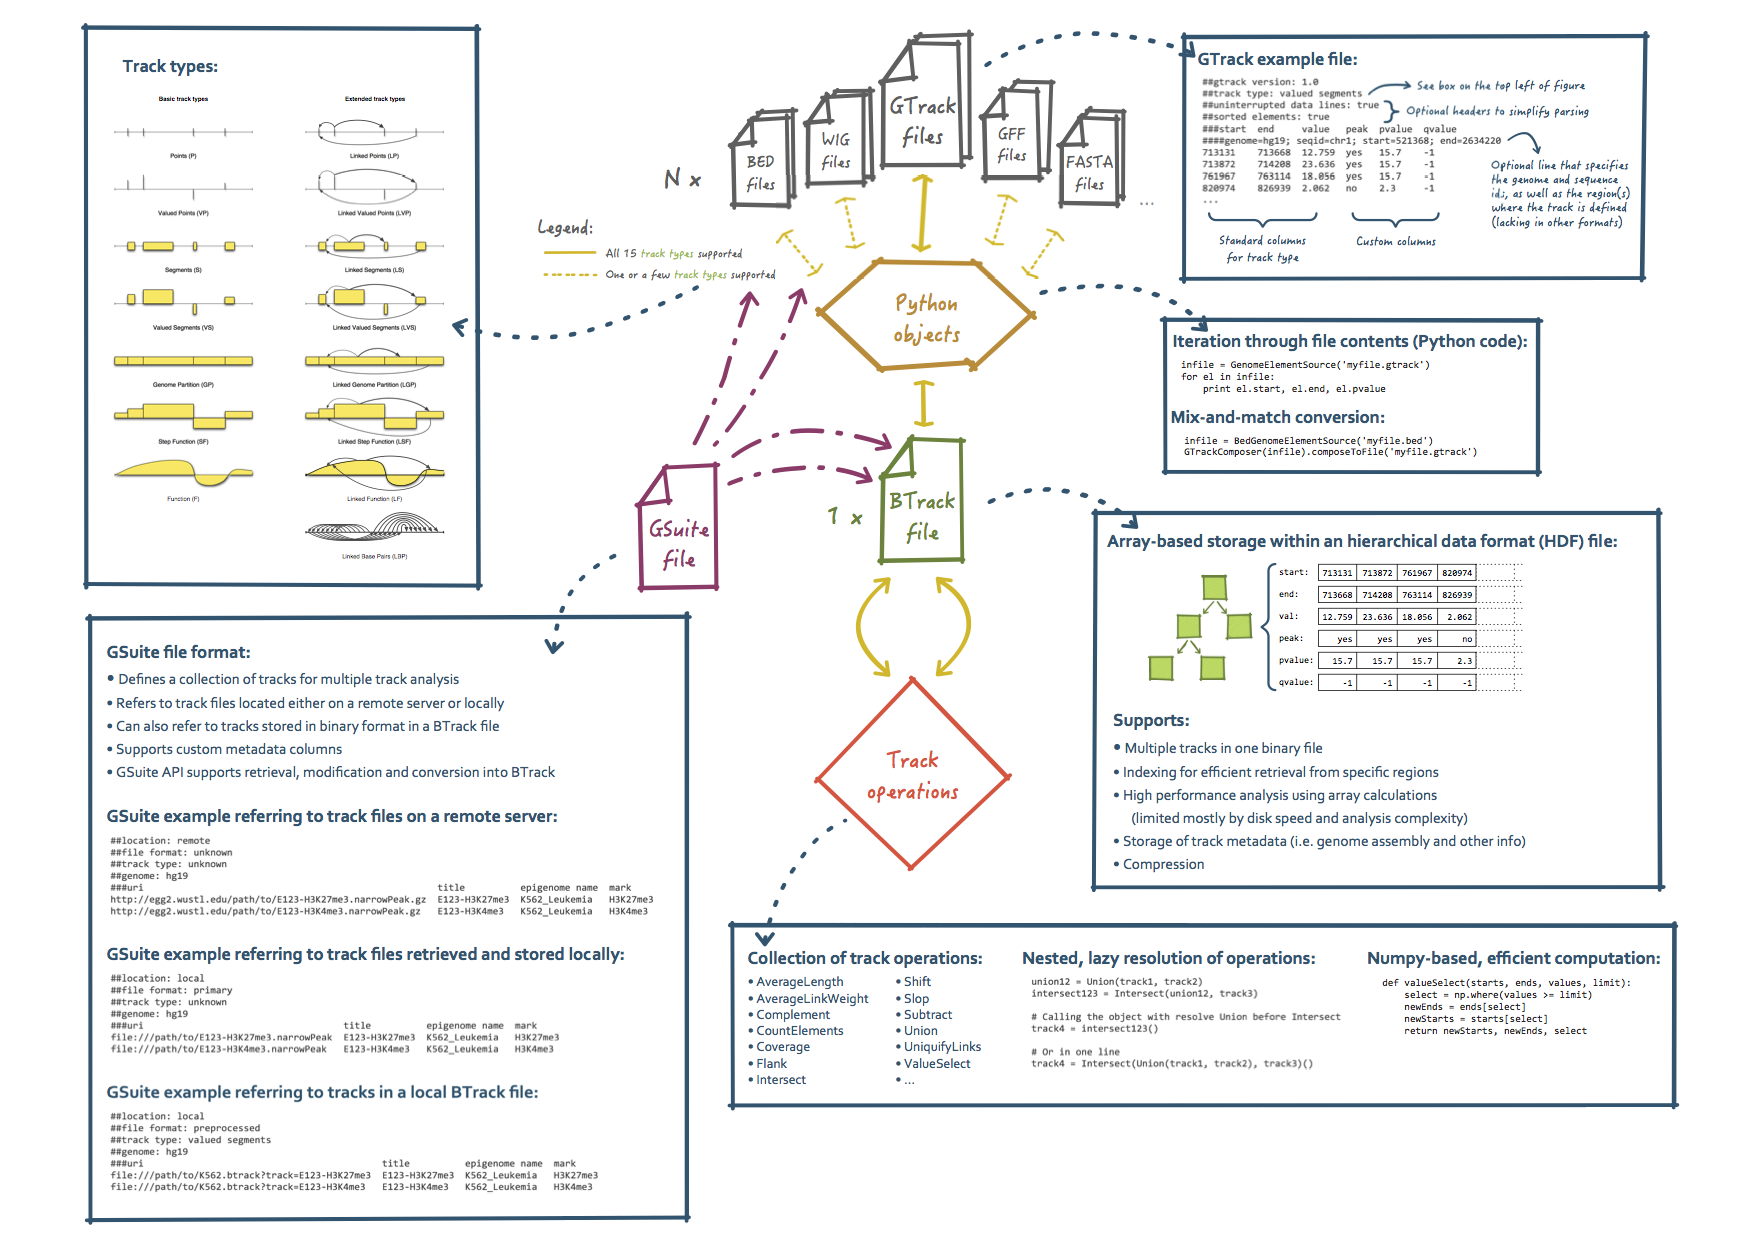
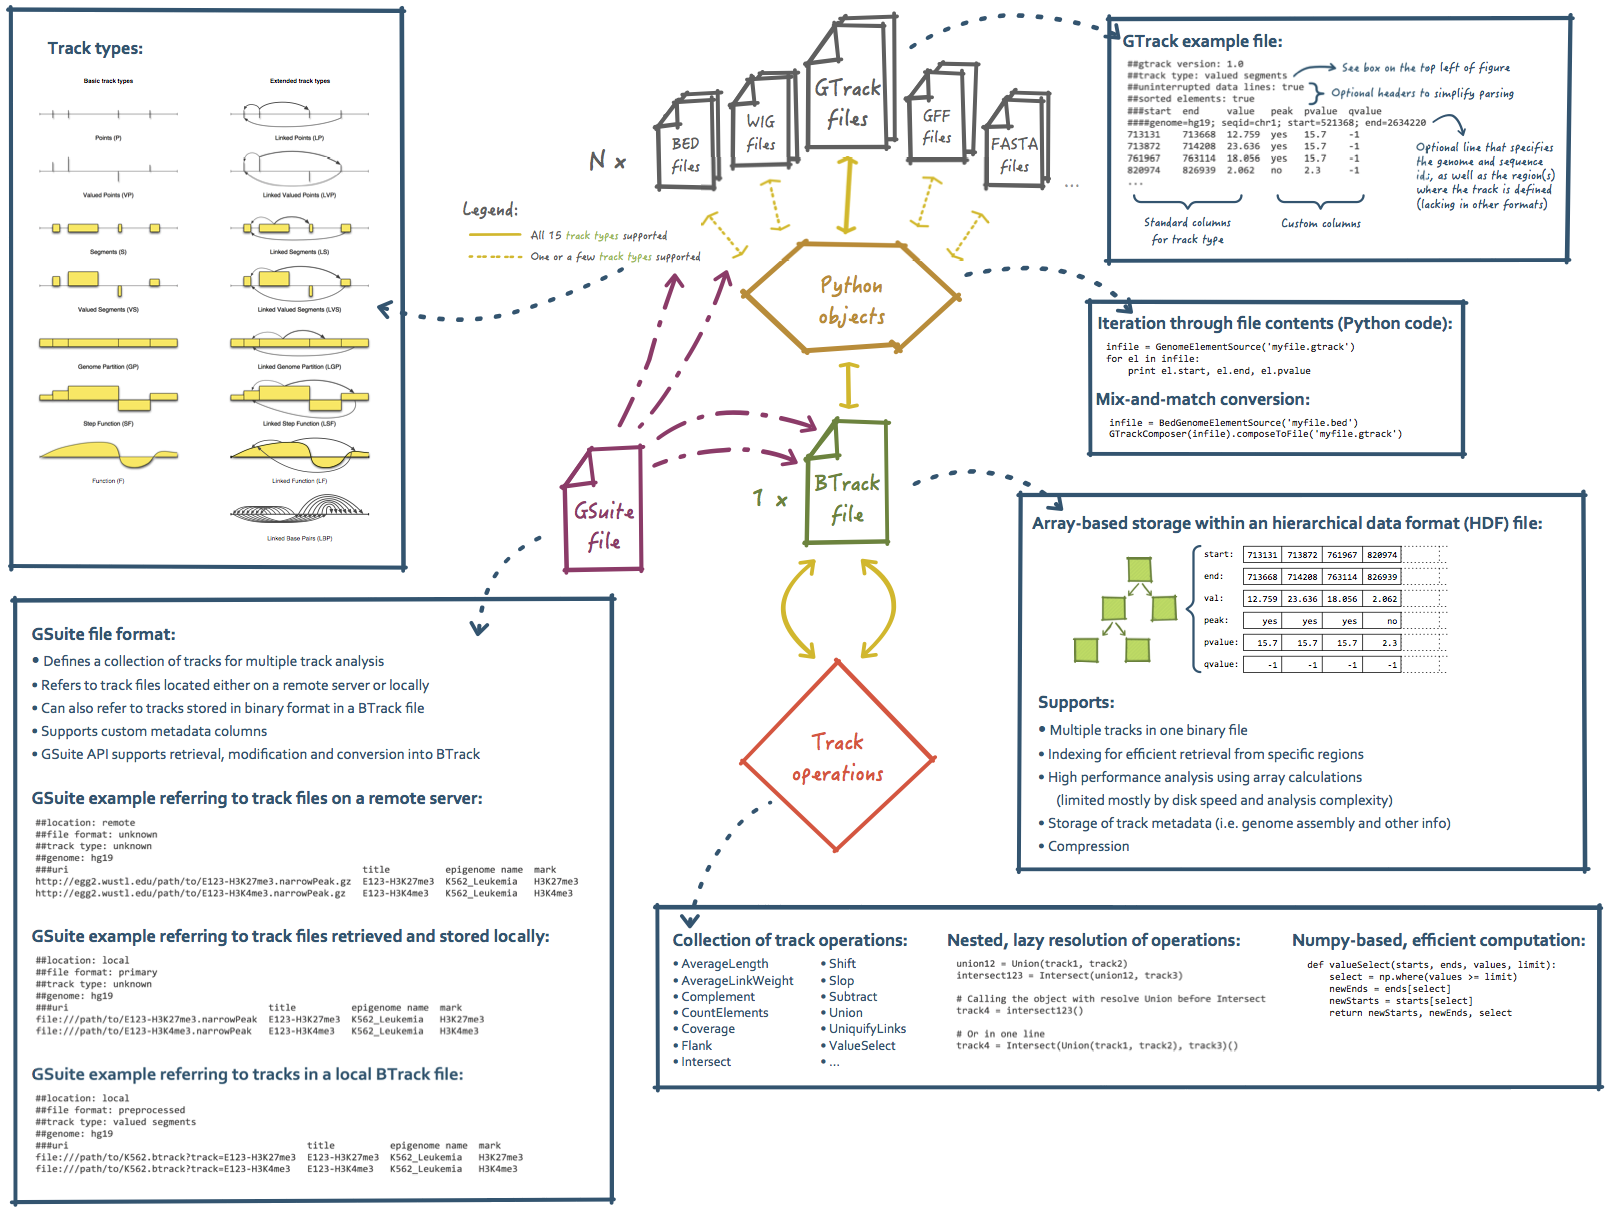
Cropped images and adjusted whitespace between images as well as between images/tables and caption text

diff --git a/components/ui/FigureList.vue b/components/ui/FigureList.vue
@@ -9,7 +9,7 @@
       v-for="(figure, figIndex) in subSection.figures"
       :key="figIndex"
       class="pb-lg-4 py-7"
-      :class="figIndex > 0 ? 'pt-lg-16' : 'pt-lg-0'"
+      :class="figIndex > 0 ? '' : 'pt-lg-0'"
     >
       <UiSmartImg
         v-show="!figure.zoomable"
@@ -27,7 +27,7 @@
       <figcaption>
         <p
           v-show="figure.caption"
-          class="body-2 font-italic text-center pt-4"
+          class="body-2 font-italic text-center pt-6"
           v-html="figureCaptionHtml(figIndex, figure)"
         />
       </figcaption>

diff --git a/components/ui/MarkdownTable.vue b/components/ui/MarkdownTable.vue
@@ -49,12 +49,12 @@
     <v-col cols="12">
       <p
         v-show="tableCaption"
-        class="body-2 font-italic text-center pt-8"
+        class="body-2 font-italic text-center pt-6"
         v-html="compileMarkdown(tableCaption)"
       />
     </v-col>
     <v-col cols="12">
-      <p class="body-2 font-italic text-center pt-8">
+      <p class="body-2 font-italic text-center pt-6">
         {{ tableFootnote }}
       </p>
     </v-col>
